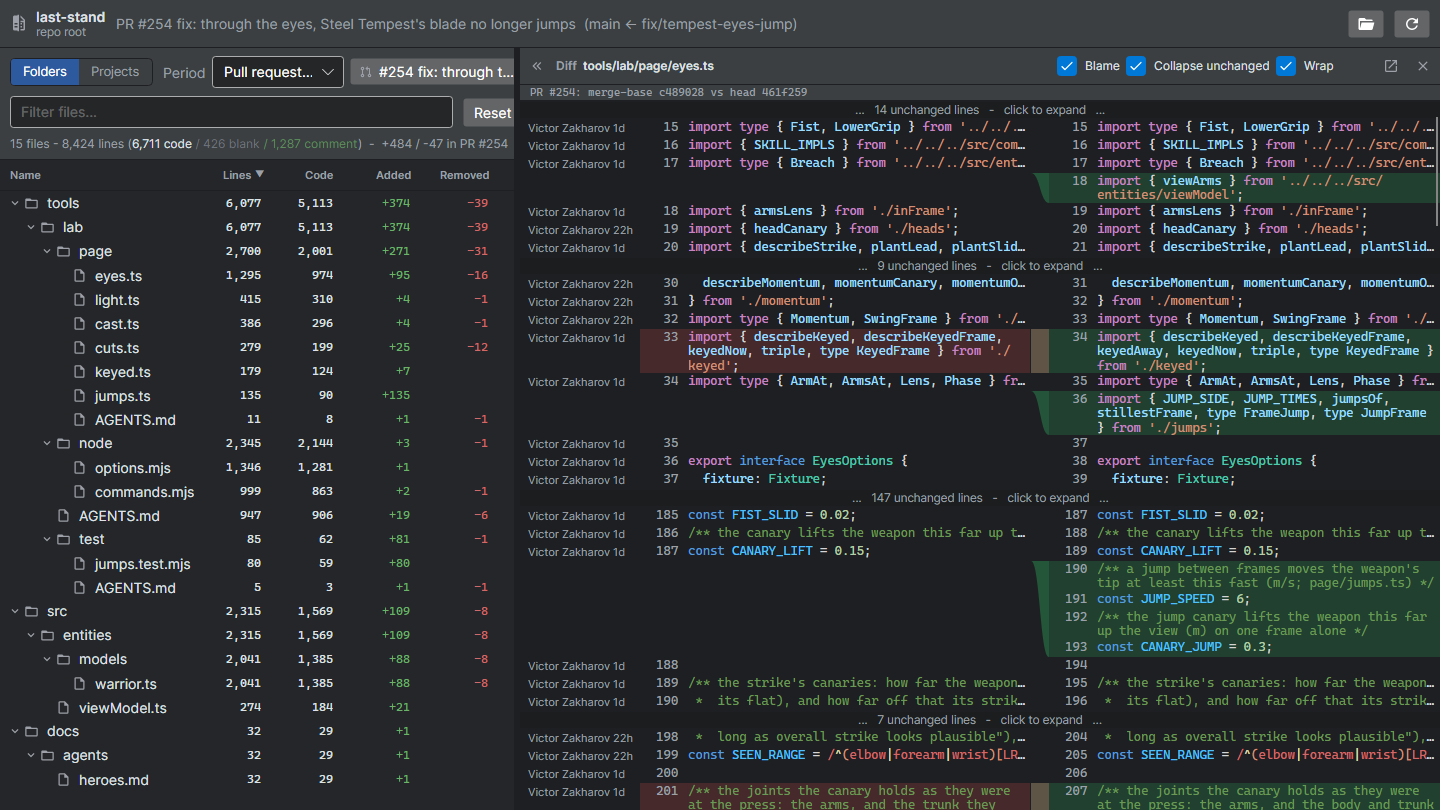
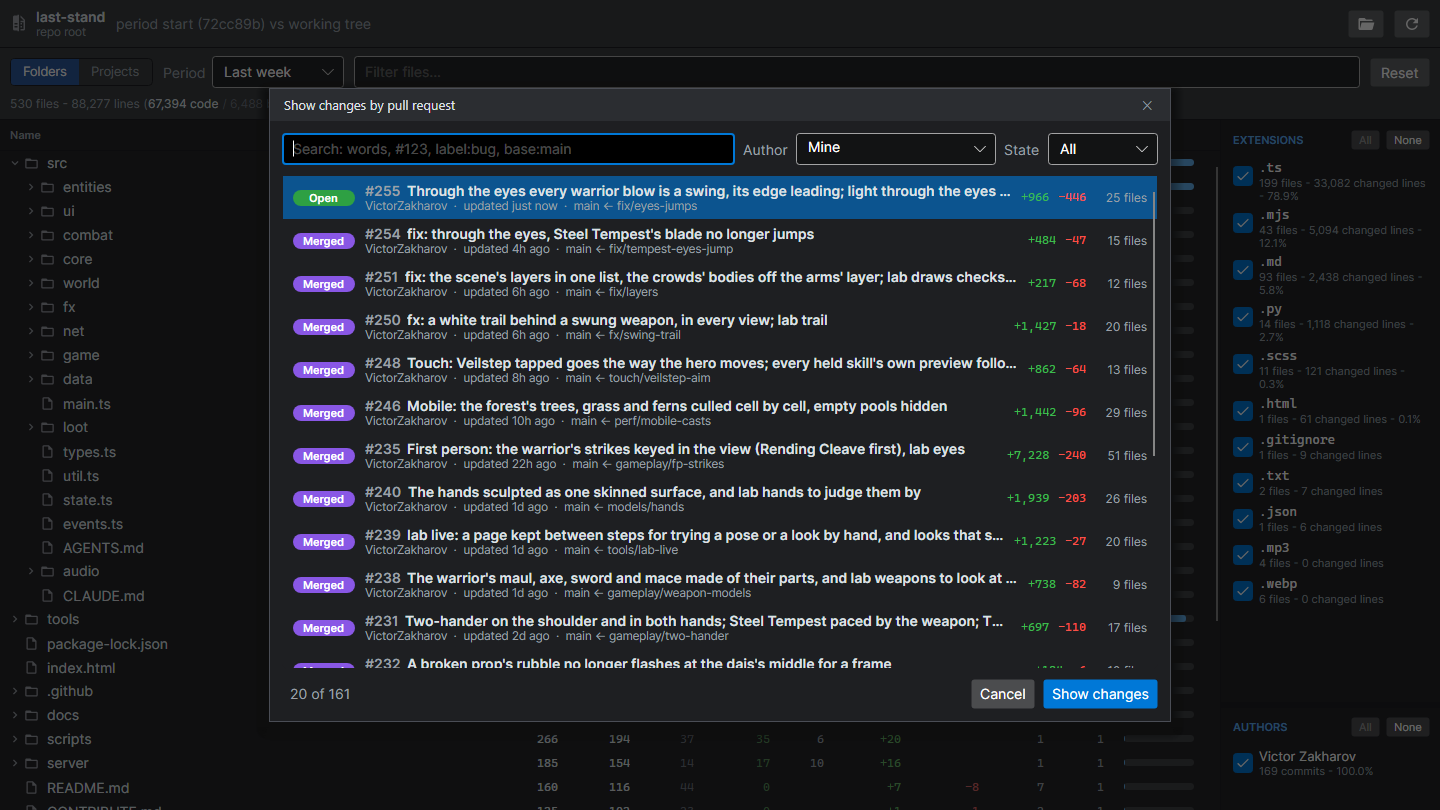
README: the pull request shot shows the picker, not a PR's diff
The diff and pull request shots looked alike. The PR shot now shows the
picker: last-stand's pull requests with state, branches and size, over the
dimmed bird's-eye. Headless windows have no frame, so the test draws the
dialog's title bar, border and shadow itself.

diff --git a/tests/Budiff.Avalonia.Tests/ReadmeGridScreenshotTests.cs b/tests/Budiff.Avalonia.Tests/ReadmeGridScreenshotTests.cs
@@ -1,12 +1,16 @@
 using System;
+using System.Globalization;
+using System.IO;
 using System.Linq;
 using System.Threading;
+using Avalonia;
 using Avalonia.Controls;
 using Avalonia.Headless.XUnit;
+using Avalonia.Media;
+using Avalonia.Media.Imaging;
 using Avalonia.VisualTree;
 using Budiff.App;
 using Budiff.Avalonia.Markdown;
-using Budiff.Git;
 using Xunit;
 
 namespace Budiff.Avalonia.Tests;
@@ -20,6 +24,9 @@ public sealed class ReadmeGridScreenshotTests
 {
     private const int Width = 1440;
     private const int Height = 810;
+    private const int PickerWidth = 900;
+    private const int PickerHeight = 600;
+    private const int TitleBarHeight = 32;
 
     [AvaloniaFact]
     public void ReadmeGrid_FromARealRepository()
@@ -27,8 +34,6 @@ public sealed class ReadmeGridScreenshotTests
         var root = Environment.GetEnvironmentVariable("BUDIFF_README_REPO");
         Assert.SkipWhen(string.IsNullOrEmpty(root), "Set BUDIFF_README_REPO to a clone of VictorZakharov/last-stand.");
         var file = Environment.GetEnvironmentVariable("BUDIFF_README_DIFF") ?? "src/entities/viewModel.ts";
-        var prFile = Environment.GetEnvironmentVariable("BUDIFF_README_PR_DIFF");
-        var prNumber = int.Parse(Environment.GetEnvironmentVariable("BUDIFF_README_PR") ?? "254");
 
         var window = new MainWindow(root!, gitRoot: true) { Width = Width, Height = Height };
         window.Show();
@@ -59,23 +64,21 @@ public sealed class ReadmeGridScreenshotTests
         UiSnapshot.Capture(window, "readme-markdown");
         vm.Diff.ShowPreview = false;
 
-        // 4. A pull request: only its changes, the drill-in from merge-base to head.
-        var source = vm.Analysis.PullRequests!;
-        var pr = source.SearchAsync(new PullRequestQuery(null, PullRequestStateFilter.All, $"#{prNumber}"), null, 5, CancellationToken.None)
-            .GetAwaiter().GetResult().Items.Single(p => p.Number == prNumber);
-        vm.Analysis.PickPullRequest = () => System.Threading.Tasks.Task.FromResult<PullRequestInfo?>(pr);
-        vm.Analysis.SelectedPeriod = vm.Analysis.Periods.Single(p => p.IsPullRequest);
-        WaitUntil(() => vm.Analysis.AppliedPullRequest is not null && !vm.Analysis.IsScanning, "pull request", timeoutMs: 120_000);
-        var prRow = prFile is null
-            ? vm.Analysis.Roots.SelectMany(r => r.SelfAndDescendants()).Where(r => r.IsFile && !r.Name.EndsWith(".md", StringComparison.Ordinal)).OrderByDescending(r => r.RemovedText.Length).First()
-            : Row(vm, prFile);
-        foreach (var folder in vm.Analysis.Roots.SelectMany(r => r.SelfAndDescendants()).Where(r => !r.IsFile))
-        {
-            folder.IsExpanded = true;
-        }
-
-        Open(window, prRow.RelativePath);
-        UiSnapshot.Capture(window, "readme-pr");
+        // 4. The pull request picker - yours first, searchable - over the
+        // dimmed bird's-eye, the way it opens from the Period list.
+        vm.CloseDiffCommand.Execute(null);
+        UiSnapshot.Pump();
+        var backdrop = UiSnapshot.Capture(window, "readme-pr-backdrop");
+        var picker = new PullRequestPickerWindow(new PullRequestPickerViewModel(vm.Analysis.PullRequests!)) { Width = PickerWidth, Height = PickerHeight };
+        picker.Show();
+        var list = picker.ViewModel;
+        WaitUntil(() => !list.IsLoading && list.Items.Count > 0, "pull requests", timeoutMs: 60_000);
+        WaitUntil(() => !list.IsLoading && list.Items.All(i => i.Counts is not null || i.CountsUnavailable), "pull request counts", throwOnTimeout: false, timeoutMs: 60_000);
+        list.SelectedItem = list.Items[0];
+        UiSnapshot.Pump();
+        var dialog = UiSnapshot.Capture(picker, "readme-pr-picker");
+        picker.Close();
+        Composite(backdrop.Path, dialog.Path, picker.Title ?? string.Empty, "readme-pr");
         window.Close();
     }
 
@@ -95,6 +98,38 @@ public sealed class ReadmeGridScreenshotTests
         UiSnapshot.Pump();
         Thread.Sleep(200);
         UiSnapshot.Pump();
+    }
+
+    // Headless windows have no frame: draw the dialog's title bar, border and
+    // shadow over the dimmed main window, centered as CenterOwner would.
+    private static void Composite(string backdropPath, string dialogPath, string title, string name)
+    {
+        using var backdrop = new Bitmap(backdropPath);
+        using var dialog = new Bitmap(dialogPath);
+        var w = dialog.PixelSize.Width;
+        var h = dialog.PixelSize.Height + TitleBarHeight;
+        var x = Math.Round((Width - w) / 2.0);
+        var y = Math.Round((Height - h) / 2.0);
+        using var target = new RenderTargetBitmap(new PixelSize(Width, Height));
+        using (var dc = target.CreateDrawingContext())
+        {
+            dc.DrawImage(backdrop, new Rect(0, 0, Width, Height));
+            dc.FillRectangle(new SolidColorBrush(Color.FromArgb(0x99, 0, 0, 0)), new Rect(0, 0, Width, Height));
+            for (var i = 14; i >= 1; i--)
+            {
+                dc.DrawRectangle(new SolidColorBrush(Color.FromArgb(9, 0, 0, 0)), null, new Rect(x - i, y - i + 6, w + 2 * i, h + 2 * i), i, i);
+            }
+
+            dc.FillRectangle(new SolidColorBrush(Color.Parse("#2B2D31")), new Rect(x, y, w, TitleBarHeight));
+            var caption = new FormattedText(title, CultureInfo.InvariantCulture, FlowDirection.LeftToRight, new Typeface(FontFamily.Default), 13, new SolidColorBrush(Color.Parse("#DFE1E5")));
+            dc.DrawText(caption, new Point(x + 14, y + Math.Round((TitleBarHeight - caption.Height) / 2)));
+            var close = new FormattedText("✕", CultureInfo.InvariantCulture, FlowDirection.LeftToRight, new Typeface(FontFamily.Default), 12, new SolidColorBrush(Color.Parse("#9DA0A8")));
+            dc.DrawText(close, new Point(x + w - 18 - close.Width, y + Math.Round((TitleBarHeight - close.Height) / 2)));
+            dc.DrawImage(dialog, new Rect(x, y + TitleBarHeight, w, dialog.PixelSize.Height));
+            dc.DrawRectangle(null, new Pen(new SolidColorBrush(Color.Parse("#4A4D55")), 1), new Rect(x - 0.5, y - 0.5, w + 1, h + 1));
+        }
+
+        target.Save(Path.Combine(UiSnapshot.OutputDir, name + ".png"));
     }
 
     private static bool PicturesSettled(MainWindow window)

diff --git a/README.md b/README.md
@@ -13,7 +13,7 @@
   </tr>
   <tr>
     <td width="50%"><a href="docs/screenshots/markdown.png"><img src="docs/screenshots/markdown.png" alt="A README rendered as a formatted preview, a changed paragraph shown old in red and new in green, with its screenshot"></a><br><b>Markdown preview</b> - rendered with its pictures, changed blocks marked</td>
-    <td width="50%"><a href="docs/screenshots/pull-request.png"><img src="docs/screenshots/pull-request.png" alt="Pull request mode: only the files a pull request changed, and one of them diffed from the merge-base"></a><br><b>Pull requests</b> - only what a PR changed, from its merge-base</td>
+    <td width="50%"><a href="docs/screenshots/pull-request.png"><img src="docs/screenshots/pull-request.png" alt="The pull request picker over the bird's-eye: the repository's pull requests with their state, branches, lines added and removed, and files changed"></a><br><b>Pull requests</b> - pick one (yours first, searchable) to see only what it changed</td>
   </tr>
 </table>
 
